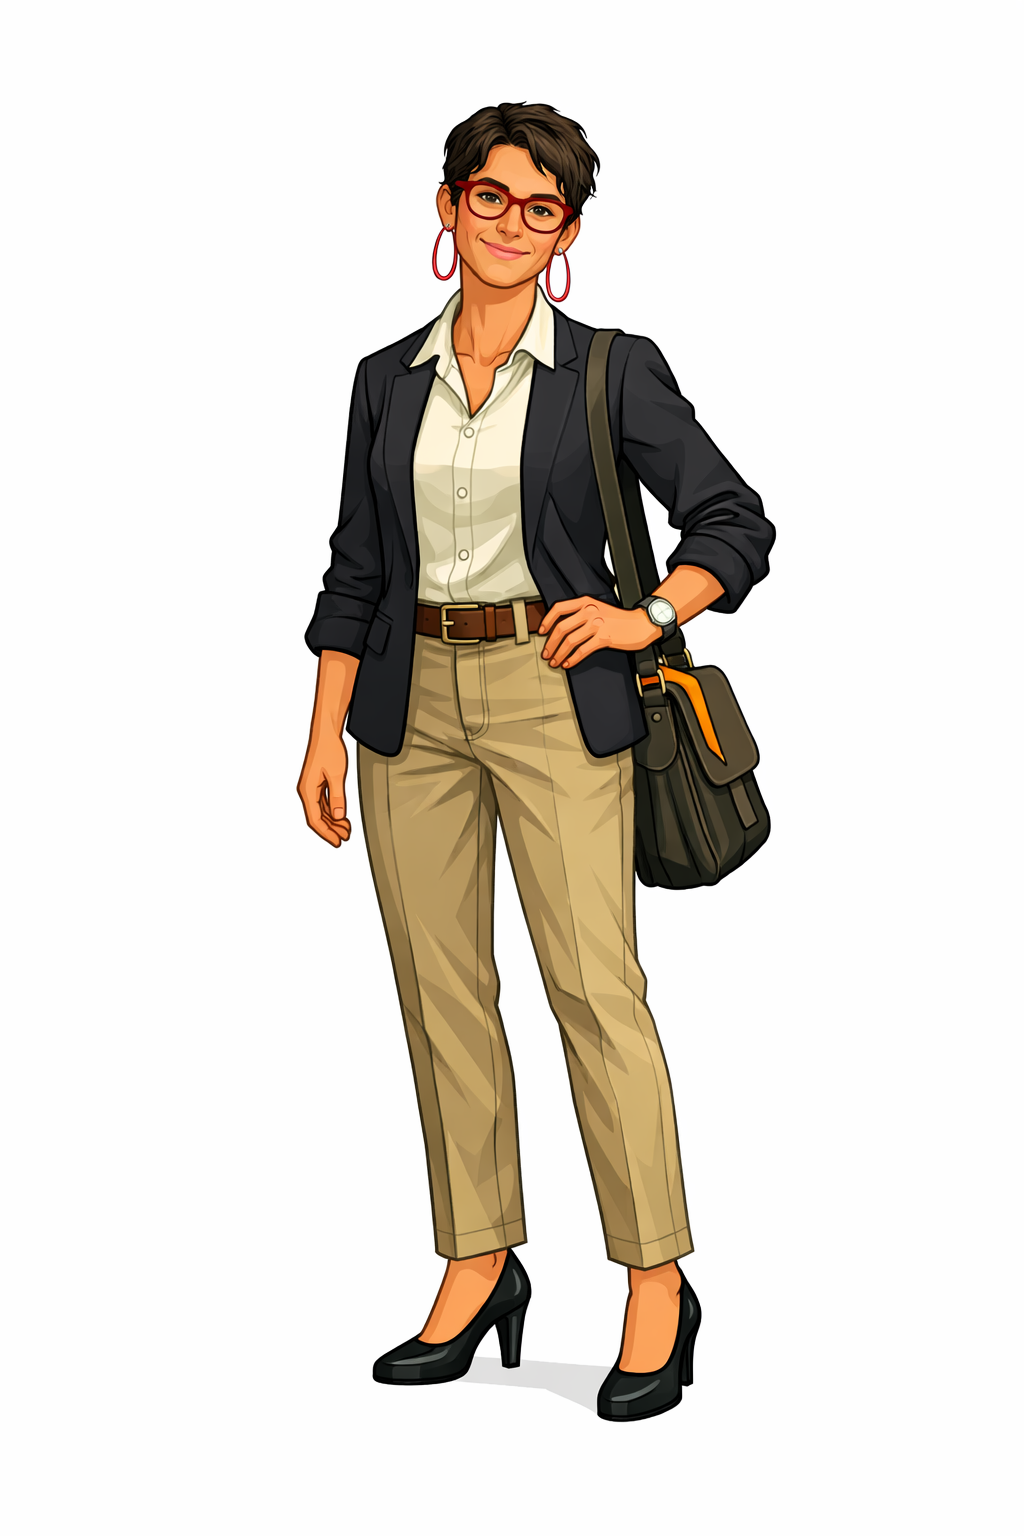
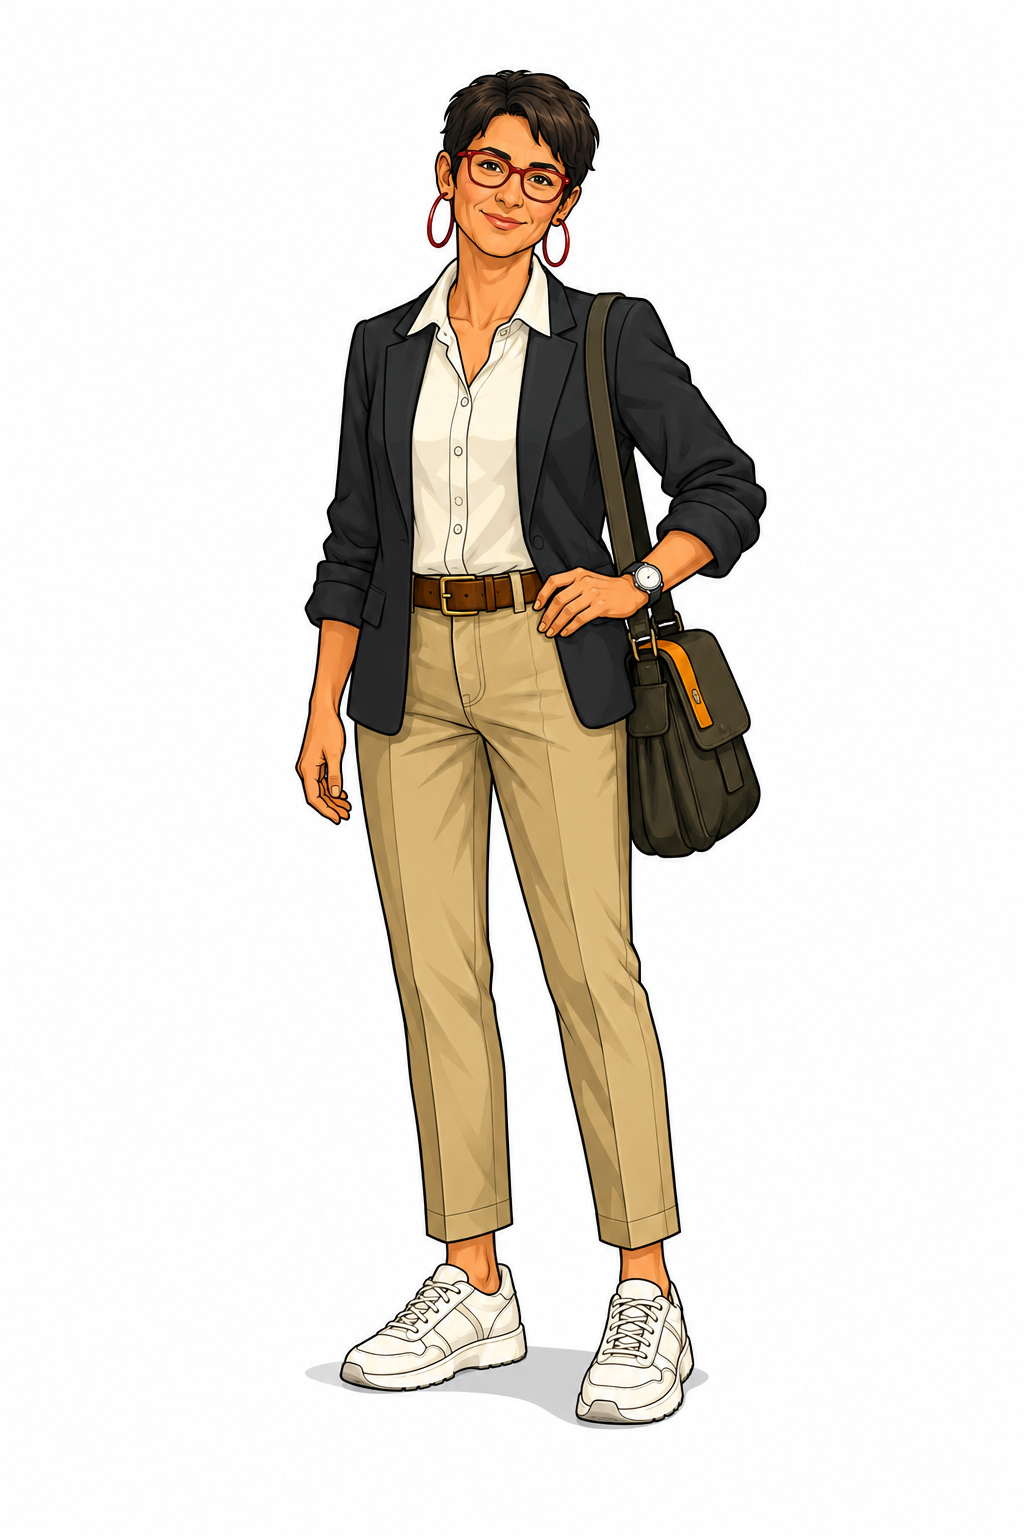
maj

Changed region(s): [[0.2812, 0.0312, 0.7812, 0.9375]]

diff --git a/textes/lespersonnages/pierredebrask.md b/textes/lespersonnages/pierredebrask.md
@@ -1,4 +1,7 @@
-# Pierre Debrask
+<figure class="article-figure-left">
+	<img src="../images/personnages/pierredebrask/pierredebrask.png" alt="Portrait de Pierre Debrask">
+	<figcaption>Pierre Debrask face au chantier du Serre-Etoile.</figcaption>
+</figure>
 
 Pierre Debrask est l'architecte à qui l'on attribue les plans du barrage du Serre-Étoile. Son nom revient dans presque toutes les discussions sur la catastrophe, sans que l'on sache encore s'il faut y voir une faute, un aveuglement ou une manipulation.
 